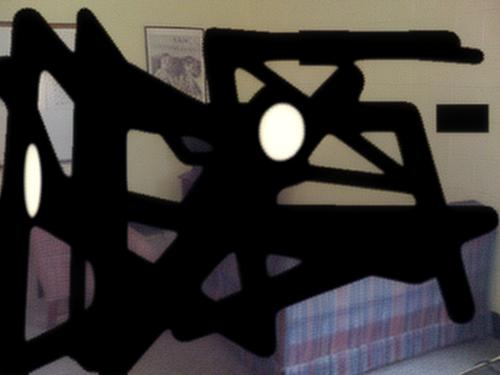
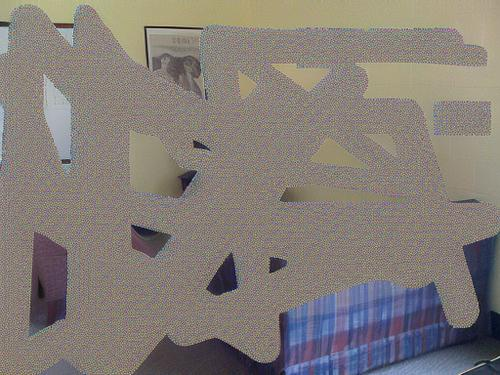
reduce anneal factor

diff --git a/fixed_versions/v2_improved_pipeline.py b/fixed_versions/v2_improved_pipeline.py
@@ -24,7 +24,8 @@ class ImprovedInpaintPipeline(V1Pipeline):
         mask_dilated = cv.dilate(mask_np, kernel, iterations=1)
         
         # 2. Feather mask: Use Gaussian blur to create a soft transition gradient
-        mask_pil = Image.fromarray(mask_dilated).filter(ImageFilter.GaussianBlur(radius=self.feather_radius))
+        # mask_pil = Image.fromarray(mask_dilated).filter(ImageFilter.GaussianBlur(radius=self.feather_radius))
+        mask_pil = mask_dilated
         return mask_pil
 
     @torch.no_grad()
@@ -55,7 +56,7 @@ class ImprovedInpaintPipeline(V1Pipeline):
             # Gradually reduce mask influence as t -> 0 to allow texture continuity.
             # Progresses from 0.0 (start) to 1.0 (end)
             progress = idx / len(schedule_indices)
-            anneal_factor = 1.0 - (0.15 * progress) # Retain 85% of background strength at the end
+            anneal_factor = 1.0 - (0.1 * progress) # Retain 85% of background strength at the end
             current_mask = mask_tensor * anneal_factor
 
             # Handle Time-Travel (V1 logic) and Background Context
